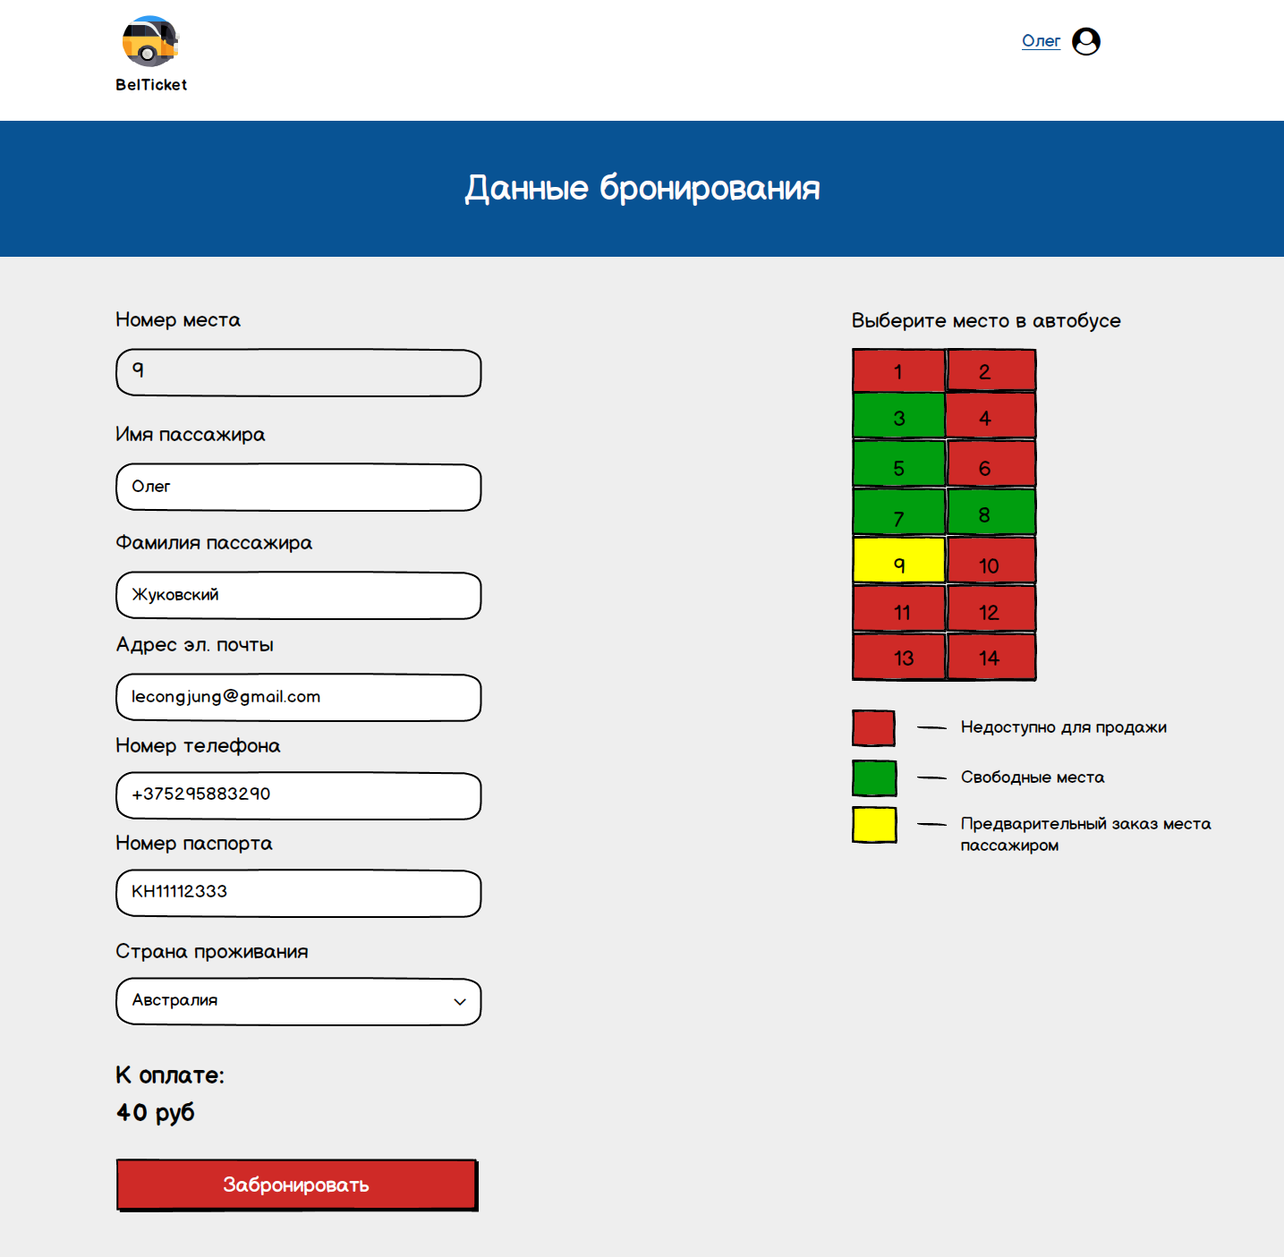
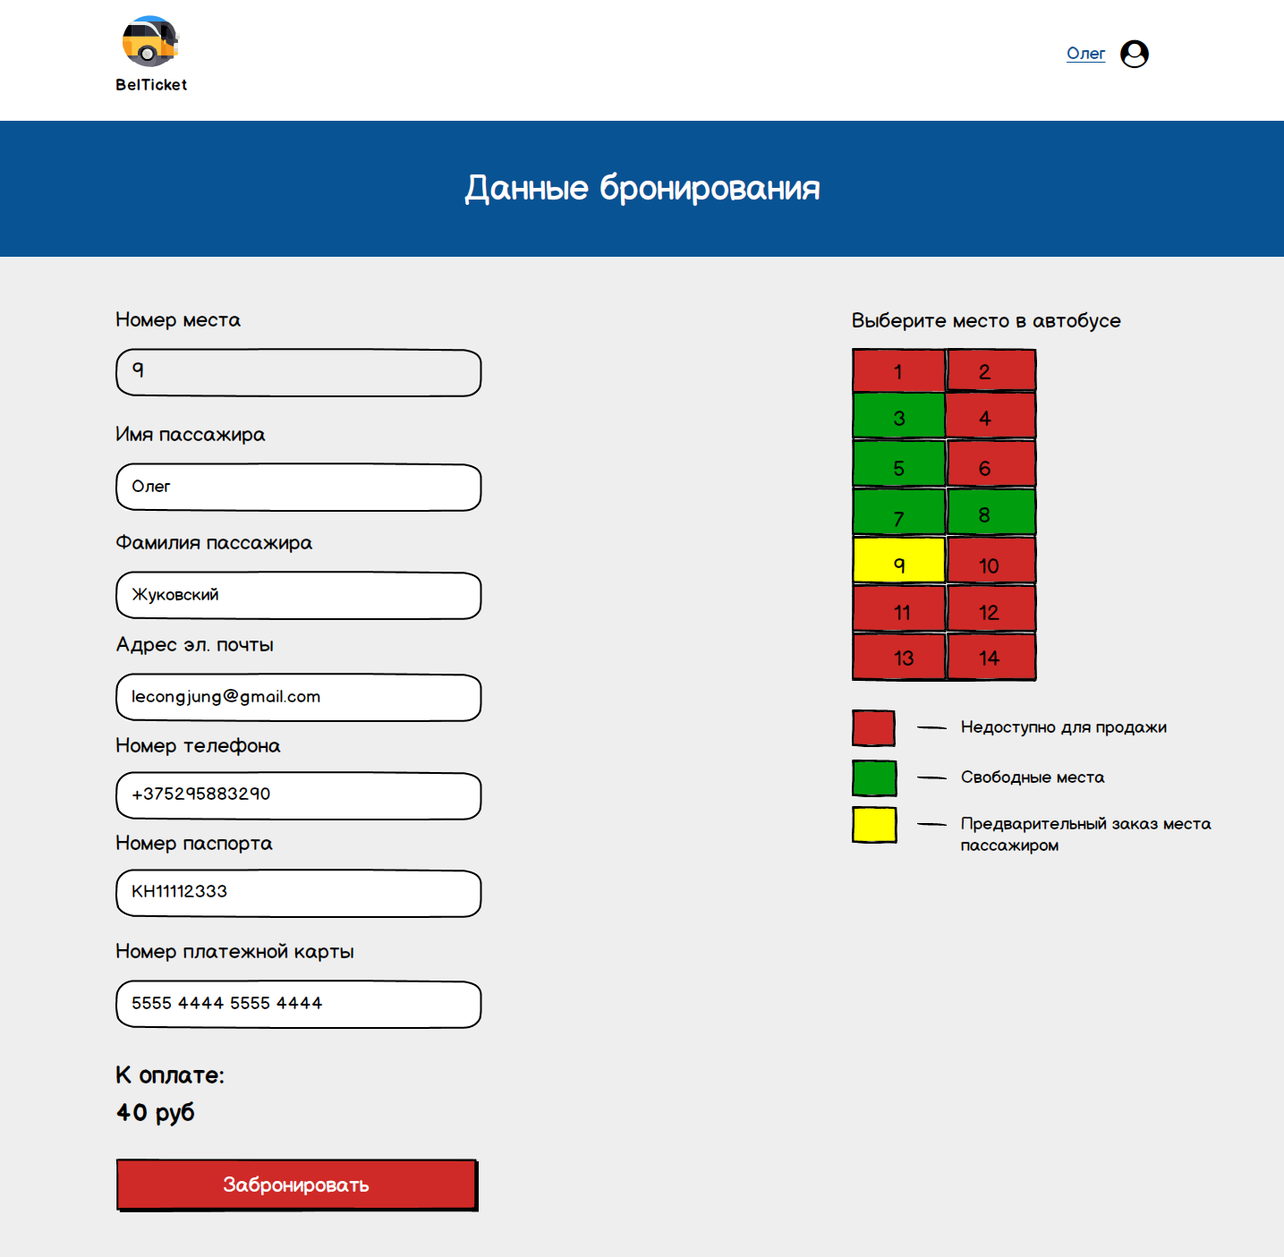
Updated Requirements Document and mockups.

Changed region(s): [[0.092, 0.7345, 0.3679, 0.8263], [0.7972, 0.0, 0.8892, 0.0612]]

diff --git a/Documents/Requirements/Requirements Document.md b/Documents/Requirements/Requirements Document.md
@@ -7,15 +7,15 @@
 1.2 [Бизнес-требования](#business_requirements)  
 1.2.1 [Исходные данные](#initial_data)  
 1.2.2 [Возможности бизнеса](#business_opportunities)  
-1.2.3 [Границы проекта](#project_boundary)  
+1.2.3 [Границы проекта](#project_boundary)
+1.2.4 [Предположения и зависимости](#assumptions_and_dependencies)  
 1.3 [Аналоги](#analogues)  
 2 [Требования пользователя](#user_requirements)  
 2.1 [Программные интерфейсы](#software_interfaces)  
 2.2 [Интерфейс пользователя](#user_interface)  
 2.3 [Характеристики пользователей](#user_specifications)  
 2.3.1 [Классы пользователей](#user_classes)  
-2.3.2 [Аудитория приложения](#application_audience)  
-2.4 [Предположения и зависимости](#assumptions_and_dependencies)  
+2.3.2 [Аудитория приложения](#application_audience)    
 3 [Системные требования](#system_requirements)  
 3.1 [Функциональные требования](#functional_requirements)  
 3.1.1 [Вход пользователя на сайт](#user_logon_to_the_site)  
@@ -57,20 +57,25 @@
 <a name="project_boundary"/>
 
 ### 1.2.3 Границы проекта
-Веб-приложение «BelTicket» позволит зарегистрированным пользователям приобретать билеты для поездок на автобусе и возможность просматривать информацию об уже приобретенных билетах. Для анонимных пользователей предусмотрена возможность просмотра информации о наличии билетов.
+Веб-приложение «BelTicket» позволит зарегистрированным пользователям приобретать билеты для поездок на автобусе, возможность просматривать информацию об уже приобретенных билетах и получать информацию о популярных маршрутах. Для анонимных пользователей предусмотрена возможность просмотра информации о наличии билетов и популярных маршрутах.
+
+<a name="asssumptions_and_dependencies"/>
+
+### 1.2.4 Предположения и зависимости
+Приложение не работает при отсутствии подключения к Интернету;
 
 <a name="analogues"/>
 
 ## 1.3 Аналоги
-ticketbus.by
-* Неудобный пользовательский интерфейс
-* Наличие расписания с автовокзалов
-* Большое количество справочной информации
+* [ticketbus.by](https://ticketbus.by/)  
+  Основной недостаток заключается в неудобном пользовательском интерфейсе.  
+  Достоинства:
+    * Наличие расписания с автовокзалов
+    * Большое количество справочной информации
 
-ecolines.by
-* Наличие бонусов к покупке билетов
-* Имеется карта маршрутов
-* Дополнительное бронирование гостиницы
+* [ecolines.by](https://ecolines.by/by/ru)
+  * Имеется карта маршрутов
+  * Дополнительное бронирование гостиницы
 
 <a name="user_requirements"/>
 
@@ -79,7 +84,7 @@ ecolines.by
 <a name="software_interfaces"/>
 
 ## 2.1 Программные интерфейсы
-Данное веб-приложение использует СУБД MySQL в качестве базы данных сервера и Node.js выполняющую роль веб-сервера.
+На серверной части веб-приложения будет создано REST API на Node.js.
 <a name="user_interface"/>
 
 ## 2.2 Интерфейс пользователя
@@ -91,14 +96,14 @@ ecolines.by
 ![Главная страница с окном входа пользователя](../../Images/Mockups/SignIn.png)
 Главная страница с окном сброса пароля.
 ![Главная страница с окном сброса пароля](../../Images/Mockups/ResetPassword.png) 
-Главная страница веб-сайта (авторизованный пользователь).  
-![Главная страница веб-сайта (авторизованный пользователь)](../../Images/Mockups/MainPage(LoggedIn).png) 
+Главная страница веб-сайта (зарегистрированный пользователь).  
+![Главная страница веб-сайта (зарегистрированный пользователь)](../../Images/Mockups/MainPage(LoggedIn).png) 
 Главная страница веб-сайта с найденным маршрутом.  
 ![Главная страница веб-сайта с найденным маршрутом](../../Images/Mockups/SearchTickets.png)   
 Cтраница веб-сайта с бронированием билета.  
 ![Cтраница веб-сайта с бронированием билета](../../Images/Mockups/Booking.png)  
-Страница с данными пользователя(пассажира).  
-![Страница с данными пользователя(пассажира)](../../Images/Mockups/UserData.png)
+Страница с данными пользователя.  
+![Страница с данными пользователя](../../Images/Mockups/UserData.png)
 Страница с совершенными заказами.
 ![Страница с совершенными заказами](../../Images/Mockups/YourBookings.png)
 
@@ -112,7 +117,7 @@ Cтраница веб-сайта с бронированием билета.
 
 | Класс пользователей | Описание |
 |:---|:---|
-| Анонимные пользователи | Пользователи, которые не хотят регистрироваться на сайте. Имеют доступ к просмотру информации о доступных билетах |
+| Анонимные пользователи | Пользователи, которые не хотят регистрироваться на сайте. Имеют доступ к просмотру информации о наличии билетов и популярных маршрутах |
 | Зарегистрированные пользователи | Пользователи, которые вошли на сайт под своим email и хотят приобретать билеты. Имеют доступ к полному функционалу |
 
 <a name="application_audience"/>
@@ -120,11 +125,6 @@ Cтраница веб-сайта с бронированием билета.
 ### 2.3.2 Аудитория приложения 
 
 Люди со средним или выше среднего уровнем образования, обладающие минимальной технической грамотностью.
-
-<a name="assumptions_and_dependencies"/>
-
-## 2.4 Предположения и зависимости
-1. Приложение не работает при отсутствии подключения к Интернету;
 
 <a name="system_requirements"/>
 
@@ -149,38 +149,33 @@ Cтраница веб-сайта с бронированием билета.
 <a name="setting_up_the_account_of_the_active_user"/>
 
 #### 3.1.2 Настройка аккаунта активного пользователя
-**Описание.** Зарегистрированный пользователь имеет возможность редактировать данные о себе.
+**Описание.** Зарегистрированный пользователь имеет возможность просматривать и редактировать свои данные.
  
-**Требование.** Приложение должно предоставить зарегистрированному пользователю просматривать свои данные и редактировать их. Пользователь должен либо редактировать их и сохранить, либо отменить действие
+**Требование.** Приложение должно предоставить зарегистрированному пользователю просматривать свои данные и редактировать их. Пользователь должен либо редактировать их и сохранить изменения, либо отменить действие, т.е. не нажимать на кнопку сохранения.
 
 <a name="completed_orders"/>
 
 #### 3.1.3 Просмотр совершенных заказов
-
-**Описание.** Зарегистрированный пользователь имеет возможность просмотреть список уже совершенных заказов.
 
 **Требование.** Веб-приложение должно предоставить зарегистрированному пользователю возможность просмотра списка совершенных заказов
 
 <a name="active_user_change"/>
 
 #### 3.1.4 Выход зарегистрированного пользователя из учётной записи
-**Описание.** Зарегистрированный пользователь имеет возможность выйти из учётной записи.
 
 **Требование.** Веб-приложение должно предоставить зарегистрированному пользователю возможность выйти из учётной записи с возвратом на главную страницу веб-сайта.
 
 <a name="search_for_buses"/>
 
-#### 3.1.5 Поиск доступных билетов и автобусов
-**Описание.** Зарегистрированному пользователю предоставлен интерфейс, в котором он может искать автобусы между любым источником и пунктом назначения в любой день, который он выберет. Он может также указать тип билета: в одну сторону или в две.
+#### 3.1.5 Поиск доступных билетов
 
-**Требование.** Веб-приложение должно предоставить зарегистрированному пользователю возможность искать доступные автобусы и выбирать параметры поиска, такие как источник, пункт назначения, дата поездки, тип билета.
+**Требование.** Веб-приложение должно предоставить зарегистрированному пользователю интерфейс поиска доступных билетов и выбора параметров поиска, таких как источник, пункт назначения, дата поездки, тип поездки: в одну сторону или две, а также отобразить информацию о билетах: наименование перевозчика, станция отправления, станция прибытия, время отправления, время прибытия, время пути, тип автобуса, количество свободных мест и стоимость билета.
 
 <a name="booking"/>
 
 #### 3.1.6 Бронирование билетов
-**Описание.** Зарегистрированному пользователю предоставлена возможность забронировать билет.
 
-**Требование.** Веб-приложение должно предоставить зарегистрированному пользователю интерфейс бронирования билета на автобус, т.е. возможность выбрать номер места, имя и фамилию пассажира, адрес электронной почты, номер телефона, номер паспорта, страну проживания.
+**Требование.** Веб-приложение должно предоставить зарегистрированному пользователю интерфейс бронирования билета на автобус, т.е. возможность выбрать номер места, имя и фамилию пассажира, адрес электронной почты, номер телефона, номер паспорта и номер платежной карты, а также вывести итоговою сумму за билеты.
 
 <a name="non-functional_requirements"/>
 
@@ -199,15 +194,14 @@ Cтраница веб-сайта с бронированием билета.
 <a name="security_requirements"/>
 
 #### 3.2.1.2 Требования к безопасности
-На сервере будет установлен брандмауэр, чтобы можно было фильтровать входящие транзакции. Целостность данных для критических переменных также будет проверена.Веб-приложение хранит данные пользователей в базе данных и имеет к ней исключительный доступ.
+На сервере будет установлен брандмауэр, чтобы можно было фильтровать входящие транзакции. Целостность данных для критических переменных также будет проверена. Веб-приложение хранит данные пользователей в базе данных и имеет к ней исключительный доступ.
 
 <a name="external_interfaces"/>
 
 ### 3.2.2 Внешние интерфейсы
-Окна приложения удобны для использования пользователями с плохим зрением:
-  * размер шрифта не менее 16пт;
-  * функциональные элементы контрастны фону окна;
-  * интуитивный дизайн.
+Страницы веб-сайта имеют приятный дизайн и благотворно влияют на психологическое состояние и выбор пользователя:
+  * функциональные элементы контрастны фону страницы и своим дизайном интуитивно указывают на действие, совершаемое ими
+  * элементы веб-страниц гармонично сочетаются между собой
 <a name="restrictions"/>
 
 ### 3.2.3 Ограничения
